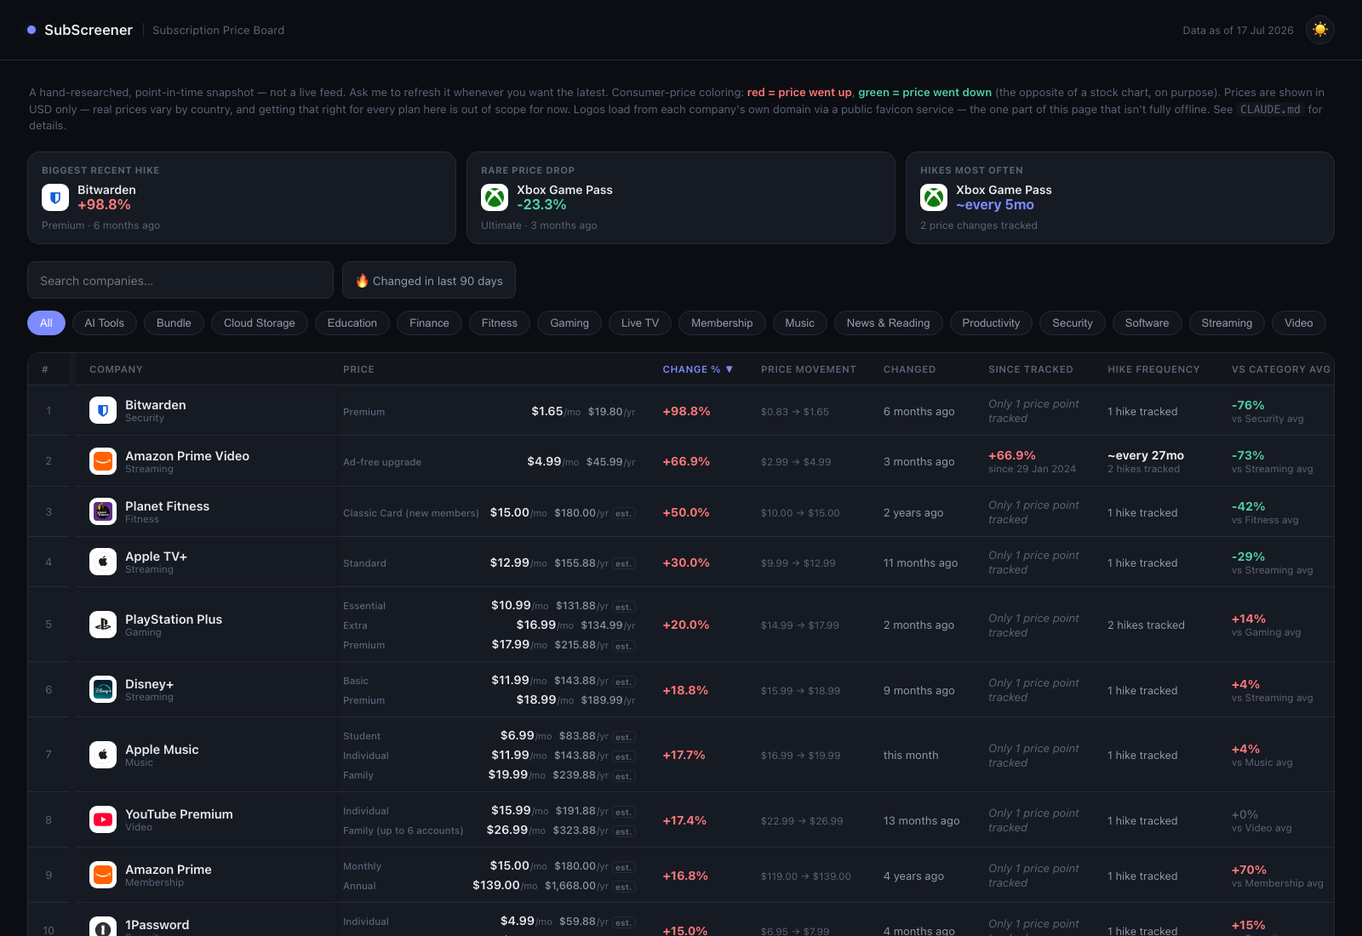
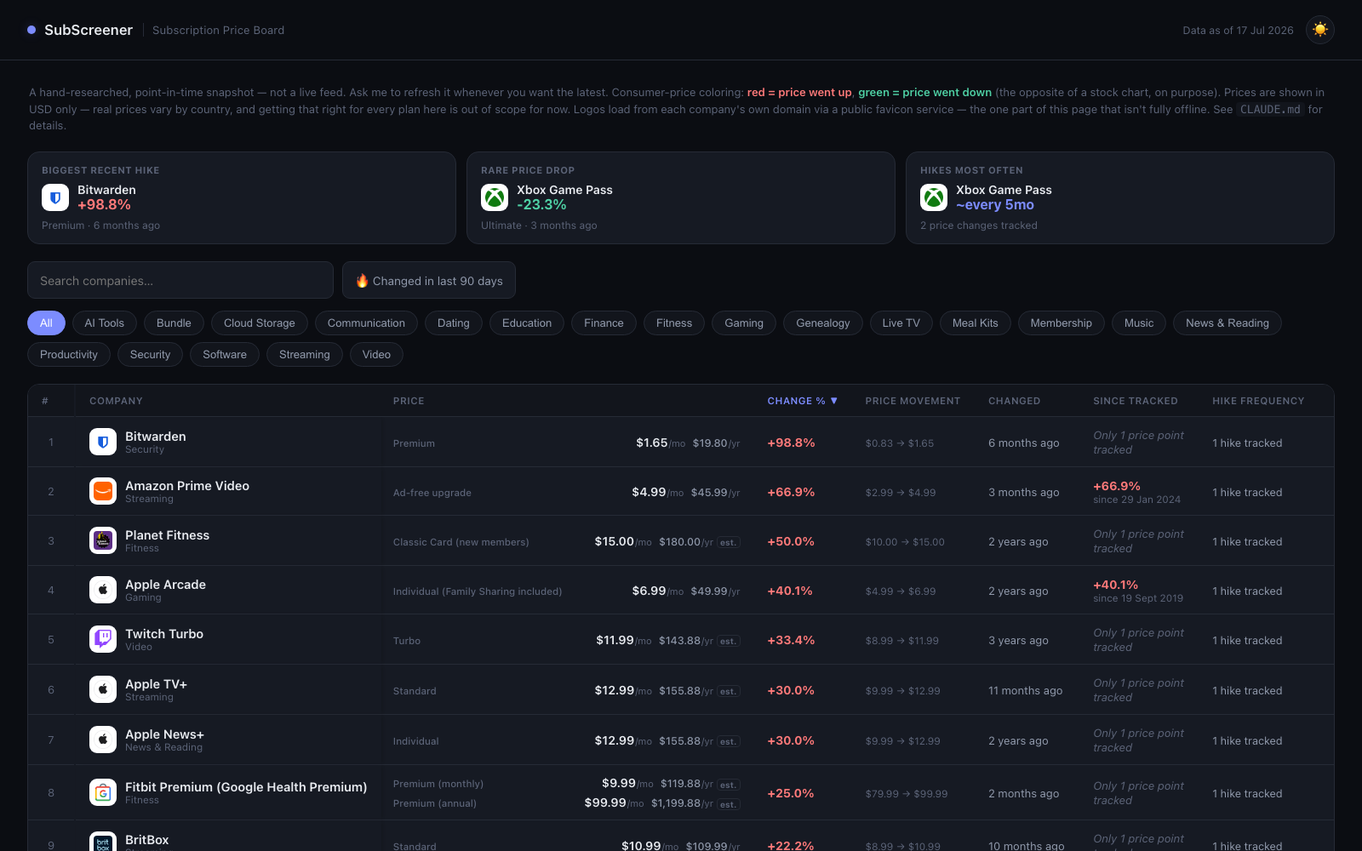
Expand catalog to 100 companies, refresh existing data, fix hike-frequency edge case
Research pass across the existing 72 companies found 4 genuine sourced
price changes (fuboTV, Sling TV, Sam's Club prior-price confirmation,
ChatGPT's new $100 Pro tier). Added 28 new companies spanning existing
categories plus four new ones (Communication, Meal Kits, Genealogy,
Dating) to reach 100 total, each with real sourced pricing.

Also fixes hikeDates() in app.js: it was counting a plan's current-
reference date as a "hike" alongside a sibling plan's real confirmed
change, which could produce a misleadingly short cadence (e.g. Sling TV
briefly showed "~every 1mo" from one real Feb 2026 hike sitting close to
an unrelated reference date). Now only dates with a confirmed change
(oldPrice not null) count.

diff --git a/data.js b/data.js
@@ -147,9 +147,9 @@ const SUBSCRIPTION_CATALOG = [
   {
     id: "sling-tv", name: "Sling TV", category: "Live TV", domain: "sling.com",
     priceHistory: [
-      { date: "2026-01-01", planLabel: "Orange", oldPrice: null, newPrice: 45.99, currency: "USD", note: "Current reference price. No confirmed prior change found.", source: "https://www.fubo.tv/stream/compare/fubo-vs-sling/" },
-      { date: "2026-01-01", planLabel: "Blue", oldPrice: null, newPrice: 45.99, currency: "USD", note: "", source: "https://www.fubo.tv/stream/compare/fubo-vs-sling/" },
-      { date: "2026-01-01", planLabel: "Orange & Blue", oldPrice: null, newPrice: 60.99, currency: "USD", note: "", source: "https://www.fubo.tv/stream/compare/fubo-vs-sling/" }
+      { date: "2026-01-01", planLabel: "Orange", oldPrice: null, newPrice: 45.99, currency: "USD", note: "Current reference price. No confirmed prior change found. Unaffected by the Feb 2026 hike below.", source: "https://www.fubo.tv/stream/compare/fubo-vs-sling/" },
+      { date: "2026-02-20", planLabel: "Blue", oldPrice: 45.99, newPrice: 49.99, currency: "USD", note: "Existing customers saw it on their first bill after Feb 20, 2026; new customers immediately.", source: "https://www.tomsguide.com/entertainment/sling-tv/sling-tv-is-getting-a-price-hike-with-no-rhyme-or-reason-and-what-youll-pay-next-month-depends-on-where-you-live" },
+      { date: "2026-02-20", planLabel: "Orange & Blue", oldPrice: 60.99, newPrice: 64.99, currency: "USD", note: "Same increase as the Blue-only plan.", source: "https://www.tomsguide.com/entertainment/sling-tv/sling-tv-is-getting-a-price-hike-with-no-rhyme-or-reason-and-what-youll-pay-next-month-depends-on-where-you-live" }
     ]
   },
   {
@@ -162,8 +162,8 @@ const SUBSCRIPTION_CATALOG = [
   {
     id: "fubotv", name: "fuboTV", category: "Live TV", domain: "fubo.tv",
     priceHistory: [
-      { date: "2026-01-01", planLabel: "Fubo Sports", oldPrice: null, newPrice: 64.99, currency: "USD", note: "Current reference price. No confirmed prior change found.", source: "https://www.fubo.tv/stream/compare/fubo-vs-sling/" },
-      { date: "2026-01-01", planLabel: "Pro", oldPrice: null, newPrice: 73.99, currency: "USD", note: "", source: "https://www.fubo.tv/stream/compare/fubo-vs-sling/" }
+      { date: "2026-07-01", planLabel: "Fubo Sports", oldPrice: 55.99, newPrice: 64.99, currency: "USD", note: "Increase tied to Fubo's renewed NBCUniversal carriage deal (restoring NBC/Telemundo/Bravo); date approximate, rolled out gradually through summer 2026.", source: "https://awfulannouncing.com/fubo/raises-prices-nbcuniversal-carriage-deal.html" },
+      { date: "2026-07-01", planLabel: "Pro", oldPrice: 73.99, newPrice: 88.99, currency: "USD", note: "The source confirms \"most plans\" rose $15/mo under the new NBCUniversal deal ($73.99 + $15 = $88.99); it doesn't name the Pro plan specifically. Date approximate, rolled out gradually through summer 2026.", source: "https://awfulannouncing.com/fubo/raises-prices-nbcuniversal-carriage-deal.html" }
     ]
   },
   {
@@ -272,7 +272,8 @@ const SUBSCRIPTION_CATALOG = [
   {
     id: "chatgpt-plus", name: "ChatGPT Plus", category: "AI Tools", domain: "openai.com",
     priceHistory: [
-      { date: "2026-01-01", planLabel: "Plus", oldPrice: null, newPrice: 20, currency: "USD", note: "Current reference price. Has held at $20/mo since its Feb 2023 launch, as far as could be confirmed here.", source: "https://aipricecompare.org/" }
+      { date: "2026-01-01", planLabel: "Plus", oldPrice: null, newPrice: 20, currency: "USD", note: "Current reference price. Has held at $20/mo since its Feb 2023 launch, as far as could be confirmed here.", source: "https://aipricecompare.org/" },
+      { date: "2026-04-09", planLabel: "Pro ($100/mo)", oldPrice: null, newPrice: 100, currency: "USD", note: "New tier launched between the existing $20 Plus plan and OpenAI's separate $200 Pro plan, aimed at heavier Codex users (5x Plus's usage allowance). Base Plus price unchanged.", source: "https://techcrunch.com/2026/04/09/chatgpt-pro-plan-100-month-codex/" }
     ]
   },
   {
@@ -536,8 +537,8 @@ const SUBSCRIPTION_CATALOG = [
   {
     id: "sams-club", name: "Sam's Club", category: "Membership", domain: "samsclub.com",
     priceHistory: [
-      { date: "2026-05-01", planLabel: "Club", oldPrice: null, newPrice: 60, currency: "USD", note: "Increased effective May 1, 2026; prior price not confirmed in this research pass.", source: "https://thekrazycouponlady.com/tips/money/sams-club-membership-cost" },
-      { date: "2026-05-01", planLabel: "Plus", oldPrice: null, newPrice: 120, currency: "USD", note: "Increased effective May 1, 2026; prior price not confirmed in this research pass.", source: "https://thekrazycouponlady.com/tips/money/sams-club-membership-cost" }
+      { date: "2026-05-01", planLabel: "Club", oldPrice: 50, newPrice: 60, currency: "USD", note: "First Sam's Club fee hike since 2022.", source: "https://www.cnbc.com/2026/04/01/sam.html" },
+      { date: "2026-05-01", planLabel: "Plus", oldPrice: 110, newPrice: 120, currency: "USD", note: "Plus members' 2% Sam's Cash reward cap also rose, from $500 to $750/yr.", source: "https://www.cnbc.com/2026/04/01/sam.html" }
     ]
   },
   {
@@ -562,6 +563,187 @@ const SUBSCRIPTION_CATALOG = [
     id: "ynab", name: "YNAB (You Need A Budget)", category: "Finance", domain: "ynab.com",
     priceHistory: [
       { date: "2026-01-01", planLabel: "YNAB", oldPrice: null, newPrice: 14.99, annualPrice: 109, currency: "USD", note: "Annual works out to ~$9.08/mo. No confirmed prior change found.", source: "https://getfinny.app/blog/ynab-pricing-2026" }
+    ]
+  },
+  {
+    id: "twitch-turbo", name: "Twitch Turbo", category: "Video", domain: "twitch.tv",
+    priceHistory: [
+      { date: "2023-05-26", planLabel: "Turbo", oldPrice: 8.99, newPrice: 11.99, currency: "USD", note: "US price increase; Turbo removes ads platform-wide. No annual plan — monthly only.", source: "https://alternativeto.net/news/2023/5/twitch-raises-subscription-price-for-twitch-turbo-in-multiple-countries" }
+    ]
+  },
+  {
+    id: "discord-nitro", name: "Discord Nitro", category: "Communication", domain: "discord.com",
+    priceHistory: [
+      { date: "2026-01-01", planLabel: "Nitro Basic", oldPrice: null, newPrice: 2.99, annualPrice: 29.99, currency: "USD", note: "Annual billing works out ~17% cheaper. No confirmed prior change found.", source: "https://pumble.com/discord-pricing" },
+      { date: "2026-01-01", planLabel: "Nitro", oldPrice: null, newPrice: 9.99, annualPrice: 99.99, currency: "USD", note: "", source: "https://pumble.com/discord-pricing" }
+    ]
+  },
+  {
+    id: "apple-arcade", name: "Apple Arcade", category: "Gaming", domain: "apple.com",
+    priceHistory: [
+      { date: "2019-09-19", planLabel: "Individual (Family Sharing included)", oldPrice: null, newPrice: 4.99, currency: "USD", note: "Apple Arcade launch price.", source: "https://www.techradar.com/news/apple-arcade-launches-on-september-19-for-dollar499-a-month" },
+      { date: "2023-10-25", planLabel: "Individual (Family Sharing included)", oldPrice: 4.99, newPrice: 6.99, annualPrice: 49.99, currency: "USD", note: "First price increase since 2019 launch; raised alongside Apple TV+ and Apple News+.", source: "https://www.macrumors.com/2023/10/25/apple-services-price-increases/" }
+    ]
+  },
+  {
+    id: "apple-news-plus", name: "Apple News+", category: "News & Reading", domain: "apple.com",
+    priceHistory: [
+      { date: "2023-10-25", planLabel: "Individual", oldPrice: 9.99, newPrice: 12.99, currency: "USD", note: "First price increase since Apple News+ launched in 2019; also included in Apple One Premier.", source: "https://www.macrumors.com/2023/10/25/apple-services-price-increases/" }
+    ]
+  },
+  {
+    id: "apple-fitness-plus", name: "Apple Fitness+", category: "Fitness", domain: "apple.com",
+    priceHistory: [
+      { date: "2026-01-01", planLabel: "Individual (Family Sharing included)", oldPrice: null, newPrice: 9.99, annualPrice: 79.99, currency: "USD", note: "Current reference price; unchanged since 2020 launch as far as could be confirmed here.", source: "https://www.apple.com/apple-fitness-plus/" }
+    ]
+  },
+  {
+    id: "kindle-unlimited", name: "Amazon Kindle Unlimited", category: "News & Reading", domain: "amazon.com",
+    priceHistory: [
+      { date: "2023-01-01", planLabel: "Individual", oldPrice: 9.99, newPrice: 11.99, currency: "USD", note: "Exact 2023 date approximate.", source: "https://www.dealnews.com/features/kindle-unlimited/cost/" }
+    ]
+  },
+  {
+    id: "walmart-plus", name: "Walmart+", category: "Membership", domain: "walmart.com",
+    priceHistory: [
+      { date: "2026-01-01", planLabel: "Walmart+", oldPrice: null, newPrice: 12.95, annualPrice: 98, currency: "USD", note: "Current reference price; discounted $49/yr rate exists for government-assistance recipients and students. No confirmed prior change found.", source: "https://www.walmart.com/help/article/walmart-membership/534c4edc29204a6bb15145a61146bf51" }
+    ]
+  },
+  {
+    id: "instacart-plus", name: "Instacart+", category: "Membership", domain: "instacart.com",
+    priceHistory: [
+      { date: "2026-01-01", planLabel: "Instacart+", oldPrice: null, newPrice: 9.99, annualPrice: 99, currency: "USD", note: "Current reference price. No confirmed prior change found.", source: "https://www.instacart.com/instacart-plus" }
+    ]
+  },
+  {
+    id: "hellofresh", name: "HelloFresh", category: "Meal Kits", domain: "hellofresh.com",
+    priceHistory: [
+      { date: "2026-01-01", planLabel: "Classic (2 people, 3 meals/wk)", oldPrice: null, newPrice: 9.99, currency: "USD", note: "Per-serving price for the most common plan size; a separate ~$10.99/wk shipping fee applies on top, and per-serving cost varies by plan size and promo. No confirmed prior change found.", source: "https://www.nerdwallet.com/finance/learn/how-much-does-hello-fresh-cost" }
+    ]
+  },
+  {
+    id: "fitbit-premium", name: "Fitbit Premium (Google Health Premium)", category: "Fitness", domain: "fitbit.com",
+    priceHistory: [
+      { date: "2026-01-01", planLabel: "Premium (monthly)", oldPrice: null, newPrice: 9.99, currency: "USD", note: "Monthly price unchanged through the May 2026 rebrand of the Fitbit app to Google Health.", source: "https://www.androidauthority.com/google-health-premium-price-inclusions-features-3664507/" },
+      { date: "2026-05-19", planLabel: "Premium (annual)", oldPrice: 79.99, newPrice: 99.99, currency: "USD", note: "Announced May 7, 2026 alongside the Fitbit-to-Google-Health app rebrand.", source: "https://www.androidauthority.com/google-health-premium-price-inclusions-features-3664507/" }
+    ]
+  },
+  {
+    id: "whoop", name: "Whoop", category: "Fitness", domain: "whoop.com",
+    priceHistory: [
+      { date: "2025-05-01", planLabel: "WHOOP One", oldPrice: null, newPrice: 16.58, annualPrice: 199, currency: "USD", note: "Whoop sells annual memberships only (device included, no separate monthly plan) — figure here is a derived monthly-equivalent. Relaunched with this 3-tier lineup in May 2025; no US price change since.", source: "https://trackervs.com/pricing/whoop-pricing/" },
+      { date: "2025-05-01", planLabel: "WHOOP Peak", oldPrice: null, newPrice: 19.92, annualPrice: 239, currency: "USD", note: "Annual only, monthly-equivalent derived.", source: "https://trackervs.com/pricing/whoop-pricing/" },
+      { date: "2025-05-01", planLabel: "WHOOP Life", oldPrice: null, newPrice: 29.92, annualPrice: 359, currency: "USD", note: "Annual only, monthly-equivalent derived.", source: "https://trackervs.com/pricing/whoop-pricing/" }
+    ]
+  },
+  {
+    id: "classpass", name: "ClassPass", category: "Fitness", domain: "classpass.com",
+    priceHistory: [
+      { date: "2026-01-01", planLabel: "Starter (varies by city)", oldPrice: null, newPrice: 19, currency: "USD", note: "Credit-based membership; price and included credits vary significantly by city (e.g. ~$19/mo entry tier in lower-cost markets, more in NYC/SF). No confirmed prior change found.", source: "https://www.exercise.com/grow/how-much-does-classpass-cost/" }
+    ]
+  },
+  {
+    id: "github-copilot", name: "GitHub Copilot", category: "AI Tools", domain: "github.com",
+    subscribers: { count: "4.7M", asOf: "Jan 28, 2026 (FY26 Q2 earnings)", note: "Paid subscribers, up ~75% year-over-year, per Microsoft's earnings disclosure.", source: "https://office365itpros.com/2026/01/30/microsoft-fy26-q2-results/" },
+    priceHistory: [
+      { date: "2026-06-01", planLabel: "Pro", oldPrice: null, newPrice: 10, currency: "USD", note: "Billing model changed June 2026 to \"GitHub AI Credits\" (replacing Premium Request Units); base subscription price unchanged.", source: "https://github.com/features/copilot/plans" },
+      { date: "2026-06-01", planLabel: "Pro+", oldPrice: null, newPrice: 39, currency: "USD", note: "Adds premium models like Claude Opus.", source: "https://github.com/features/copilot/plans" },
+      { date: "2026-01-01", planLabel: "Business (per user)", oldPrice: null, newPrice: 19, currency: "USD", note: "Current reference price for organizations; Enterprise tier is $39/user/mo.", source: "https://automationatlas.io/answers/github-copilot-pricing-explained-2026/" }
+    ]
+  },
+  {
+    id: "slack", name: "Slack", category: "Communication", domain: "slack.com",
+    priceHistory: [
+      { date: "2026-01-01", planLabel: "Pro (per user, billed annually)", oldPrice: null, newPrice: 7.25, currency: "USD", note: "$8.75/mo if billed monthly; 3-user minimum. No confirmed prior change found.", source: "https://slack.com/pricing" },
+      { date: "2025-07-01", planLabel: "Business+ (per user, billed annually)", oldPrice: null, newPrice: 15, currency: "USD", note: "$18/mo if billed monthly. Advanced AI features were folded into this tier in July 2025, replacing a separate $10/user AI add-on.", source: "https://slack.com/pricing" }
+    ]
+  },
+  {
+    id: "figma", name: "Figma", category: "Software", domain: "figma.com",
+    priceHistory: [
+      { date: "2026-01-01", planLabel: "Professional (Full seat)", oldPrice: null, newPrice: 16, currency: "USD", note: "Per editor/month, includes an AI credit pool; Dev seat is $12/mo, Collab seat $3/mo. No confirmed prior change found.", source: "https://www.figma.com/pricing/" }
+    ]
+  },
+  {
+    id: "asana", name: "Asana", category: "Productivity", domain: "asana.com",
+    priceHistory: [
+      { date: "2025-01-01", planLabel: "Starter (per user, billed annually)", oldPrice: null, newPrice: 10.99, currency: "USD", note: "$13.49/mo if billed monthly. The old \"Premium\" tier was retired and members moved to Starter during 2025.", source: "https://asana.com/pricing" },
+      { date: "2025-01-01", planLabel: "Advanced (per user, billed annually)", oldPrice: null, newPrice: 24.99, currency: "USD", note: "$30.49/mo if billed monthly.", source: "https://asana.com/pricing" }
+    ]
+  },
+  {
+    id: "zapier", name: "Zapier", category: "Software", domain: "zapier.com",
+    priceHistory: [
+      { date: "2026-01-01", planLabel: "Professional (750 tasks, billed annually)", oldPrice: null, newPrice: 19.99, currency: "USD", note: "$29.99/mo if billed monthly; price rises with higher task tiers. No confirmed prior change found.", source: "https://zapier.com/pricing" },
+      { date: "2026-01-01", planLabel: "Team (2,000 tasks, billed annually)", oldPrice: null, newPrice: 69, currency: "USD", note: "$103.50/mo if billed monthly.", source: "https://zapier.com/pricing" }
+    ]
+  },
+  {
+    id: "malwarebytes", name: "Malwarebytes", category: "Security", domain: "malwarebytes.com",
+    priceHistory: [
+      { date: "2026-01-01", planLabel: "Premium Standard (1 device, annual)", oldPrice: null, newPrice: 3.75, annualPrice: 44.99, currency: "USD", note: "Annual-only plan; monthly-equivalent derived. Plus tier is $79.99/yr, Ultimate is a $139.99/yr promo rate (renews at $279.99/yr). No confirmed prior change found.", source: "https://www.security.org/antivirus/malwarebytes/" }
+    ]
+  },
+  {
+    id: "norton-360", name: "Norton 360", category: "Security", domain: "norton.com",
+    priceHistory: [
+      { date: "2026-01-01", planLabel: "360 Deluxe (5 devices, 1st year)", oldPrice: null, newPrice: 10, annualPrice: 119.99, currency: "USD", note: "Official first-year listed price ($119.99/yr), annual-only; monthly-equivalent derived. Renewal price is higher but not disclosed on Norton's own pricing page. No confirmed prior change found.", source: "https://us.norton.com/products" }
+    ]
+  },
+  {
+    id: "mcafee-plus", name: "McAfee+", category: "Security", domain: "mcafee.com",
+    priceHistory: [
+      { date: "2026-01-01", planLabel: "Total Protection (1st year)", oldPrice: null, newPrice: 3.33, annualPrice: 39.99, currency: "USD", note: "Annual-only, first-year intro price ($39.99/yr); monthly-equivalent derived. Renews around $84.99/yr. No confirmed prior change found.", source: "https://allaboutcookies.org/mcafee-antivirus-price" }
+    ]
+  },
+  {
+    id: "medium", name: "Medium", category: "News & Reading", domain: "medium.com",
+    priceHistory: [
+      { date: "2017-03-01", planLabel: "Member", oldPrice: null, newPrice: 5, annualPrice: 50, currency: "USD", note: "Price has held at $5/mo ($50/yr) since March 2017 per Medium's own membership page. A \"Friend of Medium\" tier also exists at $150/yr.", source: "https://medium.com/membership" }
+    ]
+  },
+  {
+    id: "blinkist", name: "Blinkist", category: "Education", domain: "blinkist.com",
+    priceHistory: [
+      { date: "2026-01-01", planLabel: "Premium (annual)", oldPrice: null, newPrice: 7.49, annualPrice: 89.99, currency: "USD", note: "Monthly-only billing is $14.99/mo. A new \"Blinkist Pro\" tier (adds AI summarization) also launched in 2026 at ~$119.99/yr. No confirmed prior change found.", source: "https://makeheadway.com/blog/blinkist-cost/" }
+    ]
+  },
+  {
+    id: "curiositystream", name: "CuriosityStream", category: "Streaming", domain: "curiositystream.com",
+    priceHistory: [
+      { date: "2026-01-01", planLabel: "Standard", oldPrice: null, newPrice: 4.99, annualPrice: 39.99, currency: "USD", note: "Smart Bundle tier is $9.99/mo ($69.99/yr) and adds partner-channel content. No confirmed prior change found.", source: "https://curiositystream.com/pricing" }
+    ]
+  },
+  {
+    id: "britbox", name: "BritBox", category: "Streaming", domain: "britbox.com",
+    priceHistory: [
+      { date: "2025-09-25", planLabel: "Standard", oldPrice: 8.99, newPrice: 10.99, annualPrice: 109.99, currency: "USD", note: "First significant US price increase since launch; also introduced a two-tier (Standard/Premier) structure.", source: "https://cordcuttersnews.com/britbox-announces-price-hike-for-subscriptions-starting-september-2025-but-subscribers-can-lock-in-the-current-rate-for-1-year-if-they-act-fast/" }
+    ]
+  },
+  {
+    id: "ancestry", name: "Ancestry", category: "Genealogy", domain: "ancestry.com",
+    priceHistory: [
+      { date: "2022-02-01", planLabel: "U.S. Discovery", oldPrice: null, newPrice: 24.99, currency: "USD", note: "Current reference monthly price, in place since a February 2022 pricing update; also sold in discounted 6-month blocks.", source: "https://www.groupon.com/coupons/blog/how-much-ancestry-really-costs" },
+      { date: "2022-02-01", planLabel: "World Explorer", oldPrice: null, newPrice: 39.99, currency: "USD", note: "Adds international records.", source: "https://www.groupon.com/coupons/blog/how-much-ancestry-really-costs" },
+      { date: "2022-02-01", planLabel: "All Access", oldPrice: null, newPrice: 49.99, currency: "USD", note: "Adds military records and newspaper archives.", source: "https://www.groupon.com/coupons/blog/how-much-ancestry-really-costs" }
+    ]
+  },
+  {
+    id: "tinder-platinum", name: "Tinder Platinum", category: "Dating", domain: "tinder.com",
+    priceHistory: [
+      { date: "2026-01-01", planLabel: "Platinum (1-month)", oldPrice: null, newPrice: 49.99, currency: "USD", note: "Tinder uses dynamic per-user pricing by age/location; effective rate drops to $29.99/mo on a 6-month plan. Cheaper tiers: Tinder Gold $39.99/mo, Tinder Plus $24.99/mo. No confirmed prior change found.", source: "https://www.androidauthority.com/tinder-plus-gold-platinum-3236244/" }
+    ]
+  },
+  {
+    id: "bumble-premium", name: "Bumble Premium", category: "Dating", domain: "bumble.com",
+    priceHistory: [
+      { date: "2026-01-01", planLabel: "Premium (1-month)", oldPrice: null, newPrice: 29.99, currency: "USD", note: "Pricing can vary by region/promo; 3-month and 6-month plans offer a lower effective rate. No confirmed prior change found.", source: "https://www.datingapps.com/cost/bumble/" }
+    ]
+  },
+  {
+    id: "grubhub-plus", name: "Grubhub+", category: "Membership", domain: "grubhub.com",
+    priceHistory: [
+      { date: "2026-01-01", planLabel: "Grubhub+", oldPrice: null, newPrice: 9.99, currency: "USD", note: "Free for Amazon Prime members. No confirmed prior change found.", source: "https://www.lowermysubs.com/blog/grubhub-plus-subscription-cost-worth-it-2026" }
     ]
   }
 ];

diff --git a/app.js b/app.js
@@ -167,11 +167,14 @@ function allTierPrices(company) {
   return tiers;
 }
 
-// Distinct dates the company touched pricing on any plan — used both for
-// the "how often does this company hike prices" summary and for the
-// estimated-forecast heuristic below.
+// Distinct dates the company made a *confirmed* change on any plan — used
+// both for the "how often does this company hike prices" summary and for
+// the estimated-forecast heuristic below. Filters out oldPrice:null entries
+// (current-reference points and new-plan launches, not an actual change)
+// so a plan's baseline snapshot landing close to a real hike on a sibling
+// plan doesn't get counted as its own "touch" and skew the interval down.
 function hikeDates(company) {
-  return [...new Set(company.priceHistory.map(h => h.date))].sort();
+  return [...new Set(company.priceHistory.filter(h => h.oldPrice != null).map(h => h.date))].sort();
 }
 
 function avgIntervalMonths(dates) {

diff --git a/CLAUDE.md b/CLAUDE.md
@@ -4,9 +4,9 @@
 
 **SubScreener** — a subscription price board, styled a bit like a stock/crypto
 screener (think CoinMarketCap), for subscription companies instead of
-coins. Full-width, sortable table of ~72 well-known subscription
-companies (streaming, music, software, gaming, fitness, etc), each row
-showing:
+coins. Full-width, sortable table of 100 well-known subscription
+companies (streaming, music, software, gaming, fitness, security, dating,
+meal kits, genealogy, and more), each row showing:
 
 - **Price** — every tracked plan/tier for that company (e.g. Netflix
   shows Standard-with-ads, Standard, and Premium as three lines, Peacock
@@ -224,10 +224,27 @@ too (for its logo). No other file needs to change. If a plan's official
 name is ambiguous, verify it rather than guessing — e.g. Disney+'s ad
 tier is officially "Disney+ Basic", not just "with ads".
 
-72 of a ~75-company target are in `data.js`. The last few weren't added
-on purpose: research ran out of confidently-sourced candidates rather
-than being cut off arbitrarily — padding the count with unverified
-numbers would violate the "never invent numbers" rule above. Two new
-categories arrived in this pass too: **AI Tools** (ChatGPT Plus,
-Perplexity Pro, Claude Pro — all converged on $20/mo) and **Finance**
-(Robinhood Gold, YNAB).
+100 companies are in `data.js` as of the July 2026 expansion pass, which
+also added four new categories that didn't fit anything existing:
+**Communication** (Discord Nitro, Slack), **Meal Kits** (HelloFresh),
+**Genealogy** (Ancestry), and **Dating** (Tinder Platinum, Bumble
+Premium). A few candidates were deliberately left out even during that
+push (e.g. Noom's fully quiz-personalized pricing, LegalZoom/Rocket
+Lawyer's inconsistent published figures) because no clean, confidently-
+sourced number could be cited without guessing — padding the count with
+unverified numbers would violate the "never invent numbers" rule above.
+Earlier passes added **AI Tools** (ChatGPT Plus, Perplexity Pro, Claude
+Pro — all converged on $20/mo) and **Finance** (Robinhood Gold, YNAB).
+
+`hikeDates()` in `app.js` (drives the Hike Frequency column, the
+"hikes most often" highlight, and the forecast estimate) only counts
+dates where at least one plan has a *confirmed* change (`oldPrice` not
+null) — a plan's current-reference snapshot landing close in time to a
+real hike on a sibling plan doesn't count as its own "touch." Worth
+remembering when adding a new confirmed change to a company that also
+has an untouched sibling plan still on a `oldPrice: null` reference
+entry: no action needed, this is handled automatically, but it's why an
+old reference entry that's now fully superseded by a confirmed change
+(same plan) should just be replaced rather than left duplicated
+alongside it — keeps the data itself clean even though the frequency
+math no longer depends on it.

diff --git a/README.md b/README.md
@@ -8,7 +8,7 @@ A stock-screener-style price board for subscription services — because prices 
 
 ## What it does
 
-SubScreener tracks ~72 well-known subscription companies (streaming, music, software, AI tools, gaming, fitness, and more) in one sortable, filterable table:
+SubScreener tracks 100 well-known subscription companies (streaming, music, software, AI tools, gaming, fitness, dating, and more) in one sortable, filterable table:
 
 - **Per-tier pricing** — every plan a company offers (ad-supported, ad-free, family, etc.), monthly and annual, side by side
 - **Real price-change history** — every hike is sourced with a link to where it was reported, never guessed
